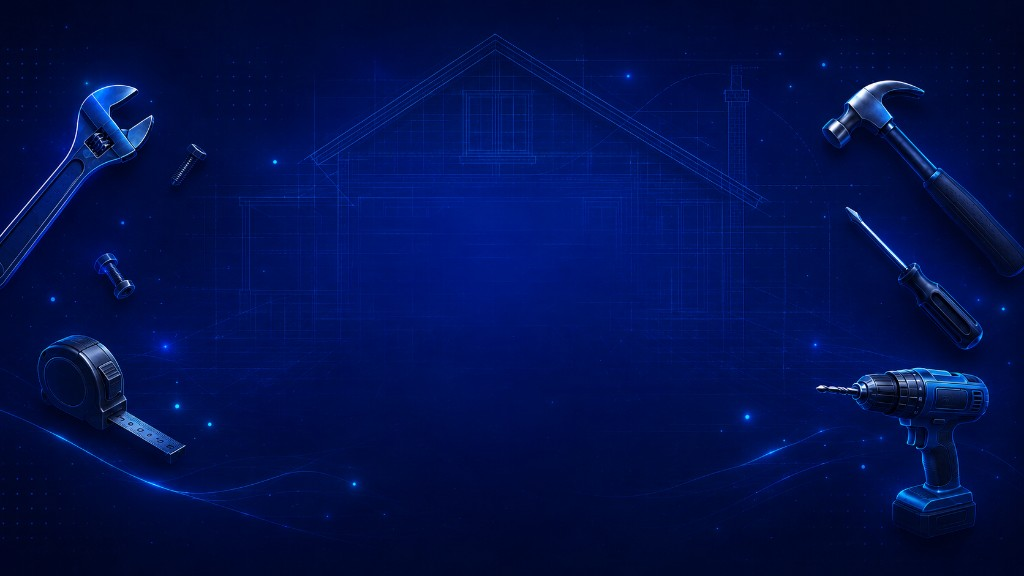
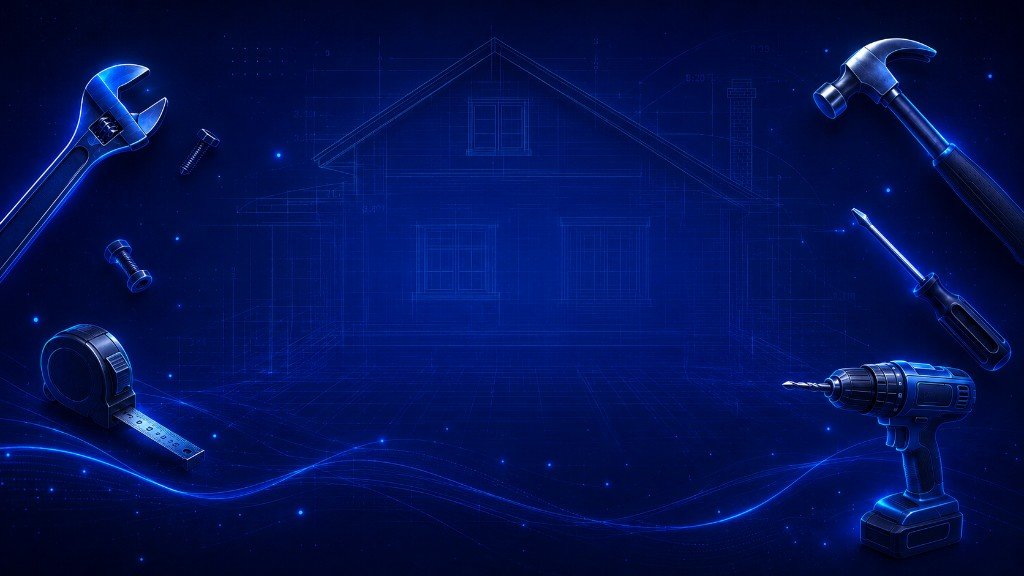
Update hero background image and show full artwork without cropping.

diff --git a/src/app/globals.css b/src/app/globals.css
@@ -73,14 +73,15 @@
     @apply relative overflow-hidden text-white;
     background-color: #020617;
     background-image: url("/hero/hero-background.png");
-    background-size: cover;
-    background-position: center;
+    background-size: contain;
+    background-position: center top;
     background-repeat: no-repeat;
   }
 
   @media (max-width: 767px) {
     .hero-section {
       background-image: url("/hero/hero-background-mobile.png");
+      background-size: contain;
       background-position: center top;
     }
   }
